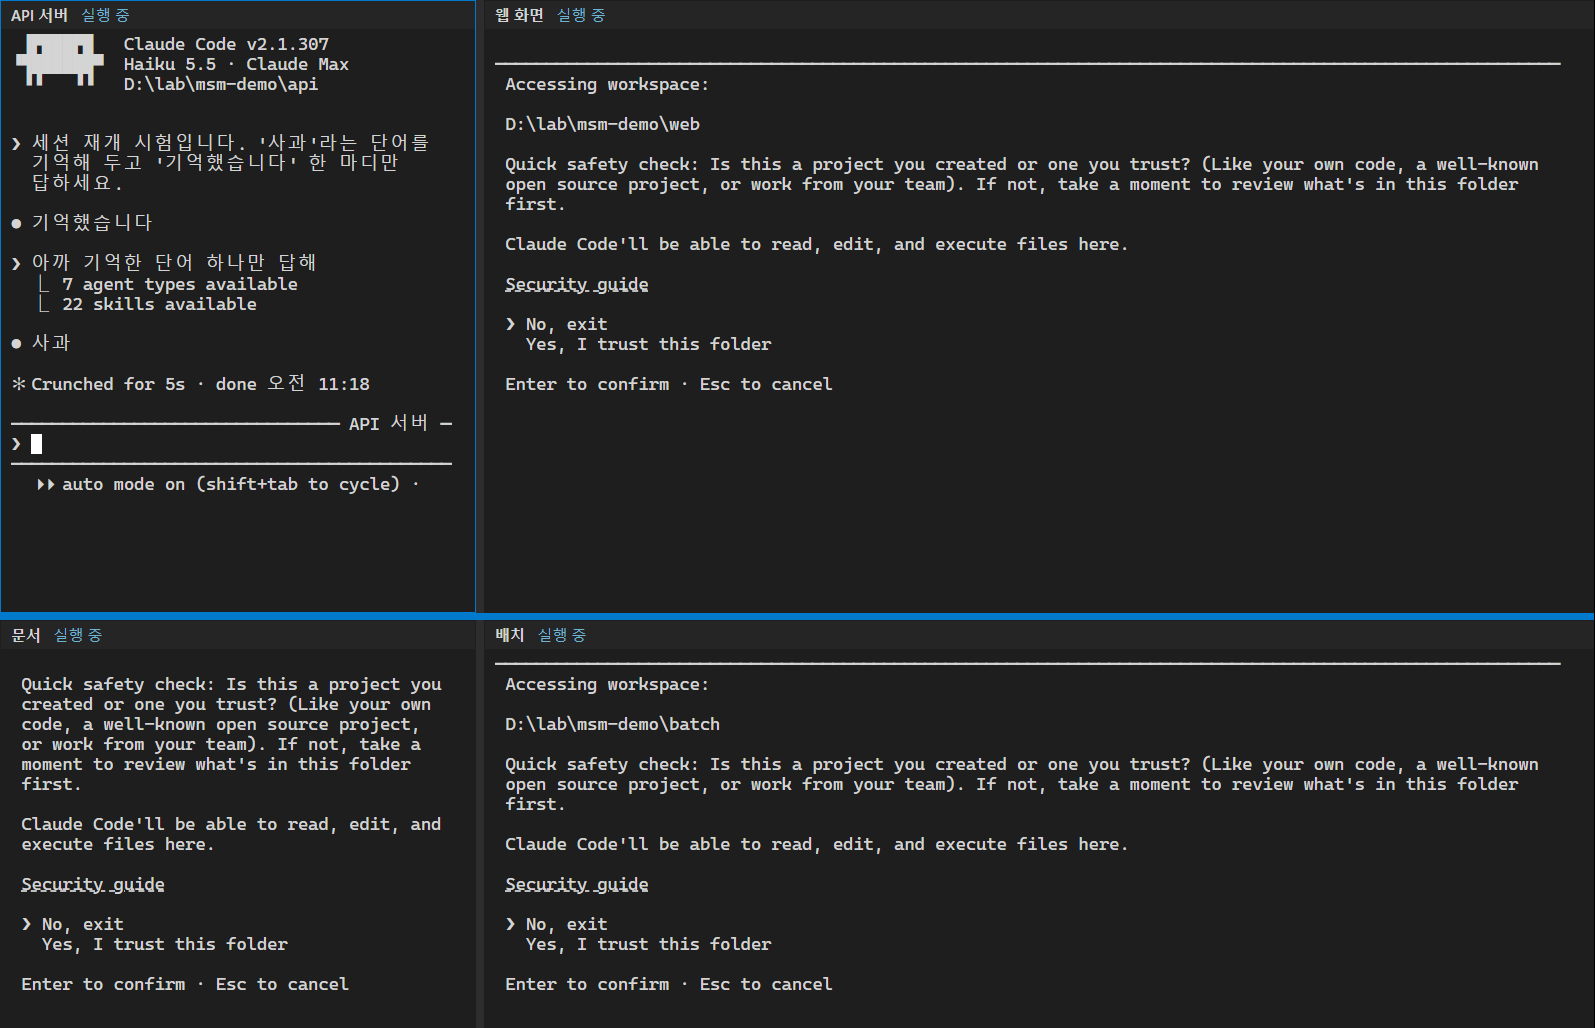
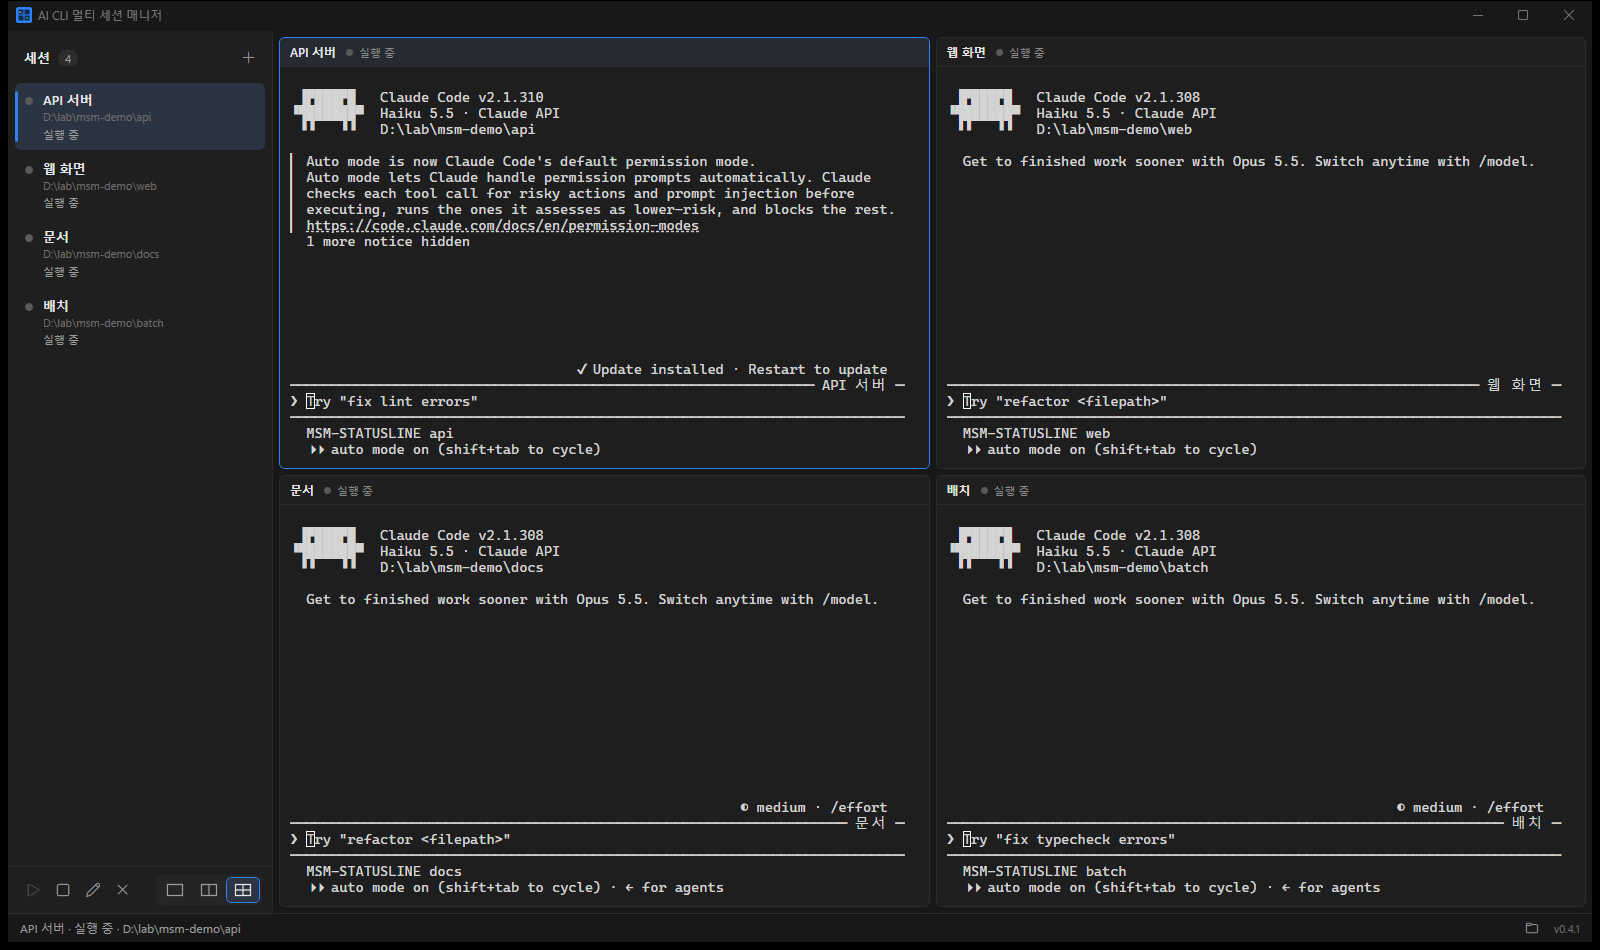
공개 준비: CI, README 그림·설치 주소, 개인 환경 이름 정리
- GitHub Actions: windows-latest 에서 Release 빌드와 dotnet test
- README 대표 그림을 지금 화면(4칸·확인 필요 표시)으로, 4칸 그림도 새 캡처로 교체
- clone 주소를 mongmulab/multi-session-manager 로, 시험 건수 92건
- e2e 주석의 개인 도구 이름을 일반 표현으로

Claude-Session: https://claude.ai/code/session_01VDUYByup6oGr3VwmiX5Yxt

diff --git a/tools/e2e/clone_config.py b/tools/e2e/clone_config.py
@@ -1,7 +1,7 @@
 """시험용 Claude 설정 폴더를 만든다(CLAUDE_CONFIG_DIR 로 쓴다).
 
 사용자 설정(~/.claude)의 플러그인·스킬·명령·상태줄·훅 구성을 그대로 옮기되,
-훅과 상태줄이 실제로 부르는 프로그램은 기록기로 바꾼다. 진짜 훅은 Hub·Orca·색인기로
+훅과 상태줄이 실제로 부르는 프로그램은 기록기로 바꾼다. 진짜 훅은 대화 기록을 외부 서버·색인기로
 세션을 올리므로, 시험 세션이 거기 섞이면 안 된다.
 
 자격 증명은 옮기지 않는다(.credentials.json 의 갱신 토큰을 같이 쓰면 원래 세션이 로그아웃될 수 있다).
